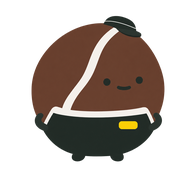
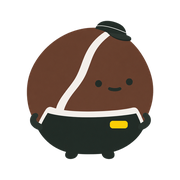
chore: 앱 아이콘 흰 배경으로 (아이폰 검은 배경 해결) · 안드로이드 maskable 추가

diff --git a/vite.config.ts b/vite.config.ts
@@ -29,10 +29,17 @@ export default defineConfig({
         theme_color: '#F1ECE3',
         // 홈 화면 · 설치 아이콘 (public/, 나현). maskable 은 넣지 않는다: 지금 아이콘은 배경이 투명하고
         // 캐릭터가 가장자리(안전 영역 80% 밖)까지 있어서, 안드로이드가 동그랗게 자르면 모자 · 발이 잘린다
+        // 앱 아이콘: 흰 배경 PNG (투명이면 아이폰이 검은색으로 채움, 11/14). 탭 아이콘(favicon.svg)은 index.html 에서만
+        // maskable: 안드로이드가 원 · 둥근 네모로 자를 때 캐릭터가 잘리지 않게 여백을 넉넉히 (안전 영역 80% 안)
         icons: [
-          { src: '/favicon.svg', sizes: 'any', type: 'image/svg+xml' },
-          { src: '/icon-192.png', sizes: '192x192', type: 'image/png' },
-          { src: '/icon-512.png', sizes: '512x512', type: 'image/png' },
+          { src: '/icon-192.png', sizes: '192x192', type: 'image/png', purpose: 'any' },
+          { src: '/icon-512.png', sizes: '512x512', type: 'image/png', purpose: 'any' },
+          {
+            src: '/icon-maskable-512.png',
+            sizes: '512x512',
+            type: 'image/png',
+            purpose: 'maskable',
+          },
         ],
       },
     }),

diff --git a/index.html b/index.html
@@ -6,8 +6,8 @@
          .ico 를 먼저(SVG 못 쓰는 브라우저), SVG 를 뒤에 두면 SVG 를 쓰는 브라우저는 SVG 를 고른다 -->
     <link rel="icon" href="/favicon.ico?v=2" sizes="any" />
     <link rel="icon" type="image/svg+xml" href="/favicon.svg?v=2" />
-    <!-- 아이폰 홈 화면에 추가할 때 아이콘 -->
-    <link rel="apple-touch-icon" href="/apple-touch-icon.png?v=2" />
+    <!-- 아이폰 홈 화면에 추가할 때 아이콘 (흰 배경 — 투명이면 검은색으로 채워짐). 바꾸면 ?v 숫자를 올린다 -->
+    <link rel="apple-touch-icon" href="/apple-touch-icon.png?v=3" />
     <!-- interactive-widget: 키보드가 올라오면 화면 높이를 줄여서 아래 고정 입력칸(채팅)이 가려지지 않게 (안드로이드 크롬) -->
     <meta
       name="viewport"
